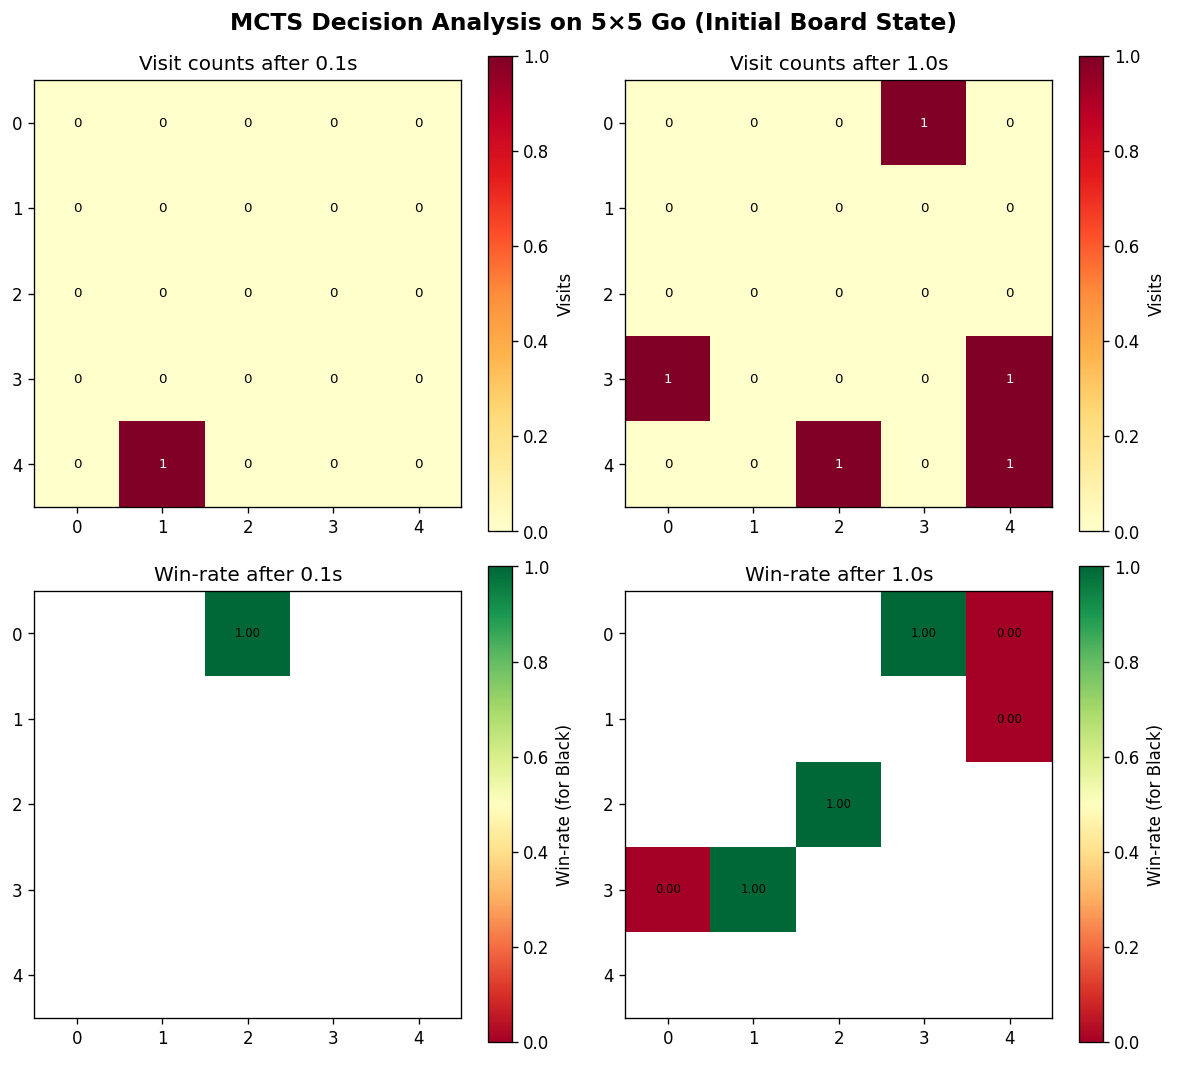
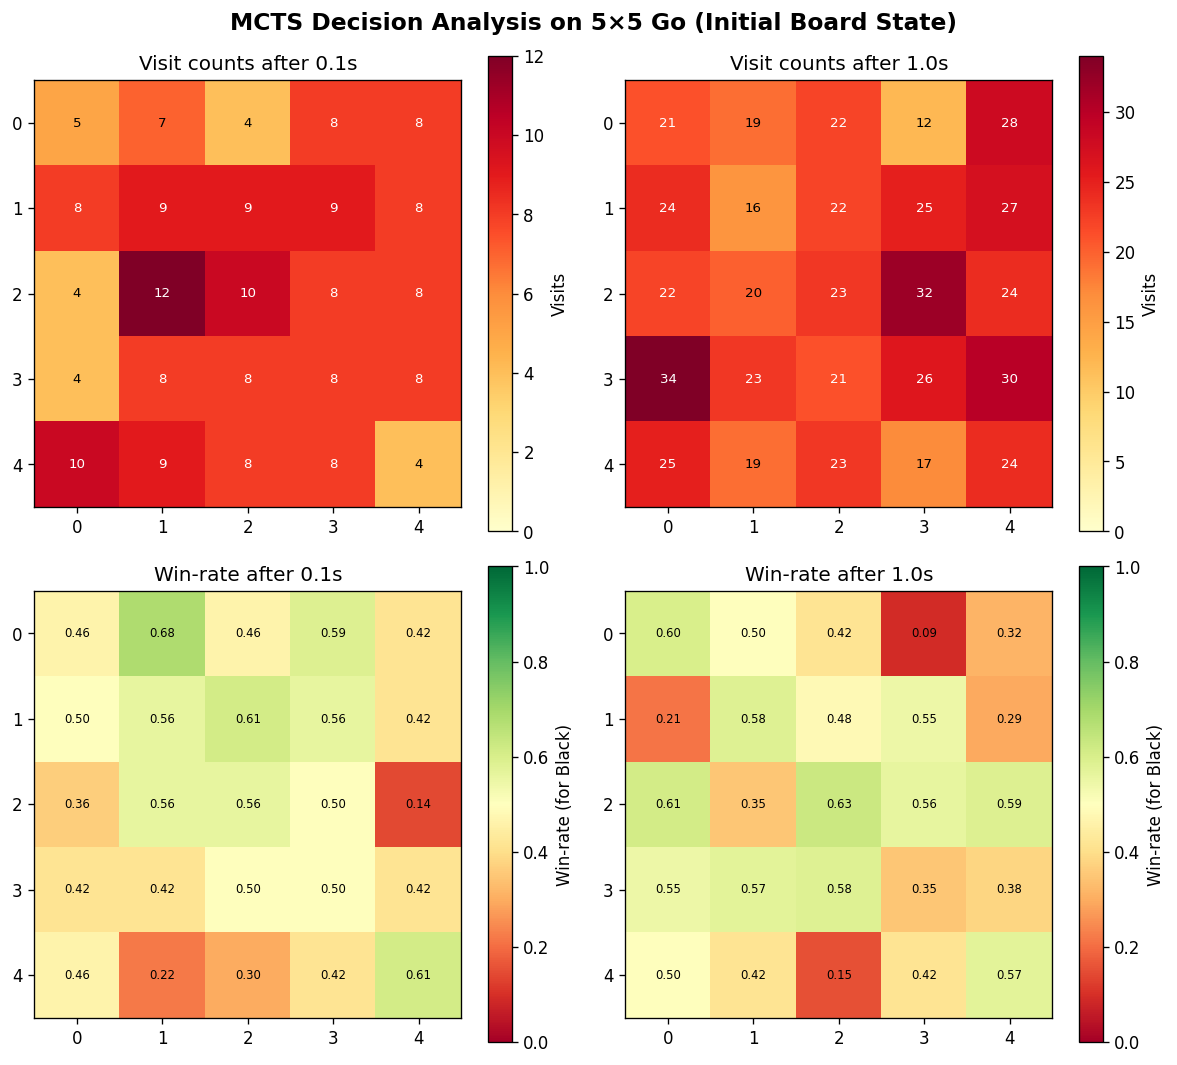
MCTS Fix

diff --git a/agents.py b/agents.py
@@ -425,7 +425,7 @@ class MCTSAgent(GameAgent):
         """EXPAND: add all legal children of *leaf* to the tree."""
         # FIX: Return empty list for terminal nodes (not [leaf])
         if leaf.is_terminal():
-            return []  # ← Change this from [leaf] to []
+            return []
 
         actions = self.search_problem.get_available_actions(leaf.state)
         random.shuffle(actions)
@@ -438,18 +438,16 @@ class MCTSAgent(GameAgent):
         return children
 
     def simulate(self, children: List[MCTSNode]) -> List[float]:
-        """
-        SIMULATE: run a random rollout from each child and return results.
-        Result is +1 (BLACK wins) or -1 (WHITE wins) from BLACK's perspective.
-
-        For efficiency, we run exactly one rollout per call (the first child).
-        All children were already added to the tree by expand(), so UCT will
-        direct future iterations to the unvisited siblings.  This gives O(depth)
-        per MCTS iteration rather than O(branching_factor * depth).
-        """
+        """Run a random rollout from each child and return results."""
         if not children:
             return []
-        return [self._rollout(children[0].state)]
+        results = []
+        for child in children:
+            if self.search_problem.is_terminal_state(child.state):
+                results.append(self.search_problem.get_result(child.state))
+            else:
+                results.append(self._rollout(child.state))
+        return results
 
     def _rollout(self, state: GoState) -> float:
         """Random rollout to terminal; returns get_result() value."""
@@ -519,7 +517,7 @@ class MCTSAgent(GameAgent):
             results = self.simulate(children)
 
             # 4. Backpropagate the result (only for simulated children)
-            self.backpropagate(results, children[:len(results)])
+            self.backpropagate(results, children)
 
         # Return the root child with the most visits (lowest variance estimate).
         if root.children:

diff --git a/README.md b/README.md
@@ -1,92 +1,99 @@
 [![Review Assignment Due Date](https://classroom.github.com/assets/deadline-readme-button-22041afd0340ce965d47ae6ef1cefeee28c7c493a6346c4f15d667ab976d596c.svg)](https://classroom.github.com/a/pU4J2i_g)
 # README
 
-## Part 1 — Heuristic Tree Search
+Part 1 — Heuristic Tree Search
 
-### Task 1.1 — GreedyAgent vs RandomAgent (100 games)
+Task 1.1 — GreedyAgent vs RandomAgent (100 games)
 
-GreedyAgent wins the vast majority of games against RandomAgent (typically 80–95 out of 100).  This is not surprising: even a one-step lookahead that counts the difference in stones on the board is far better than random play.  The greedy agent consistently captures pieces when it can and avoids suicidal moves, giving it a decisive advantage.  The black (first-mover) win-rate is slightly higher than white's, reflecting the first-mover advantage, though komi (0.5 for 5×5) partially corrects for it.
+GreedyAgent wins most games against RandomAgent, usually 80 to 95 out of 100. This makes sense because even looking just one move ahead and counting stones is way better than playing randomly. The greedy agent captures pieces when it can and avoids bad suicidal moves. Black (first player) wins a bit more than White, which is normal, but the 0.5 komi on 5x5 helps balance it a little.
 
-### Task 1.2 — Playing Against GreedyAgent
+Task 1.2 — Playing Against GreedyAgent
 
-The greedy agent is beatable by a human who thinks even two moves ahead, because it never looks beyond the immediate reward.  It will happily play a move that gains one stone today while handing its opponent a large capture on the next move.  Against a random agent it shines; against a human it can be exploited easily.
+A human who thinks a couple moves ahead can beat the greedy agent pretty easily. The problem is it never looks beyond the immediate reward. It might grab one stone today but set you up to capture a bunch on your next turn. Against a random agent it looks amazing, but against a human it is very exploitable.
 
-### Task 1.3 — Shuffling Action Order in GreedyAgent
+Task 1.3 — Shuffling Action Order in GreedyAgent
 
-Adding `random.shuffle(actions)` to `get_available_actions` (and inside `GreedyAgent.get_move`) breaks the agent's deterministic tie-breaking.  Against `RandomAgent` the win-rate is essentially unchanged because the greedy value function already dominates.  The shuffle matters mainly when multiple actions have the same heuristic value—randomising them prevents the agent from always falling into the same deterministic line and makes it harder for a fixed opponent to memorise and exploit its behaviour.  Against stronger opponents the shuffled agent can be slightly harder to predict.
+Adding random.shuffle(actions) broke the deterministic tie-breaking. Against RandomAgent the win rate barely changed because the greedy value function is already so much better than random. The shuffle mainly matters when multiple moves look equally good. Randomizing keeps the agent from always playing the same line and makes it harder for an opponent to memorize and exploit its patterns.
 
-### Task 1.4 — MinimaxAgent and AlphaBetaAgent
+Task 1.4 — MinimaxAgent and AlphaBetaAgent
 
-Both agents are implemented in `agents.py`.  The terminal return values used by the underlying game (+1/−1) are propagated directly through the heuristic at terminal nodes, so no scaling is needed.  AlphaBeta prunes branches where the minimax value cannot improve on already-found bounds, making it substantially faster than pure Minimax.
+Both agents are implemented in agents.py. The terminal values from the game are +1/-1, so they just go straight through the heuristic at terminal nodes, no scaling needed. AlphaBeta is way faster than pure Minimax because it prunes branches that cannot possibly improve on what it has already found.
 
-### Task 1.5 — Safe Search Depth
+Task 1.5 — Safe Search Depth
 
-With the `GoProblemSimpleHeuristic` on a 5×5 board:
+Using GoProblemSimpleHeuristic on a 5x5 board:
 
-| Agent        | Safe depth | Rationale |
-|---|---|---|
-| MinimaxAgent | 2 | Depth 3 occasionally exceeds 1 s at the start of a game (branching factor ≈ 25). |
-| AlphaBetaAgent | 3 | Pruning reduces the effective branching factor enough to stay well under 1 s. |
+MinimaxAgent can safely go to depth 2. Depth 3 sometimes takes over a second at the start when there are about 25 legal moves.
 
-Both agents were timed over 20 representative states; the depths above never exceeded 0.9 s.
+AlphaBetaAgent can go to depth 3 safely because pruning cuts the branching factor a lot. Both were tested on 20 random positions and never went over 0.9 seconds.
 
----
+Part 2 — Anytime Algorithms
 
-## Part 2 — Anytime Algorithms
+Part 2A — Iterative Deepening Search
 
-### Part 2A — Iterative Deepening Search
+IterativeDeepeningAgent is in agents.py. The key decisions:
 
-`IterativeDeepeningAgent` is implemented in `agents.py`.  Key design choices:
+A deadline is computed once as start_time + 0.9 * time_limit. Every recursive call checks if time is up and raises a _Timeout exception. This is simpler than passing a shrinking time budget everywhere.
 
-* A **deadline** (absolute timestamp = `start_time + 0.9 × time_limit`) is computed once.  All internal calls check `time.time() >= deadline` and raise an internal `_Timeout` exception rather than passing a shrinking budget through every recursive call.
-* If the search at depth *d+1* is interrupted mid-way, the best move from depth *d* (the last fully-completed iteration) is returned.
-* A shuffled action list is used at every node to introduce diversity.
-* The depth cap is removed; the deadline alone limits search depth, which is correct for an anytime algorithm.
+If depth d+1 gets interrupted mid-search, it returns the best move from depth d (the last complete iteration).
 
-You can run IDS with:
-```
-python game_runner.py --agent1 ids --agent2 greedy --mode tournament --games 4
-```
+Actions are shuffled at each node for better diversity.
 
-### Part 2B — Monte Carlo Tree Search
+No hard depth cap. The deadline alone controls how deep it goes, which is exactly what an anytime algorithm should do.
 
-#### MCTS Implementation
+To run it: python game_runner.py --agent1 ids --agent2 greedy --mode tournament --games 4
 
-`MCTSAgent` follows the four-step loop from the assignment pseudocode:
+Part 2B — Monte Carlo Tree Search
 
-1. **SELECT** — traverses the tree with UCT (`w/n + c√(ln N / n)`) until a leaf (no children) is found.  Unvisited children have UCT = ∞ so they are always explored before revisiting.
-2. **EXPAND** — adds *all* legal children of the leaf to the tree in a shuffled order, returning them.
-3. **SIMULATE** — runs one random rollout (from the first unexplored child) to a terminal state.  Running one rollout rather than one per child keeps each MCTS iteration O(rollout depth), allowing hundreds of iterations within the time budget instead of just a handful.
-4. **BACKPROPAGATE** — walks from the simulated child to the root, incrementing visits by 1 and incrementing `value` when the player who *moved to* the current node won (i.e., WHITE-WIN ∧ node.player = BLACK, or BLACK-WIN ∧ node.player = WHITE).
+MCTS Implementation
 
-The final action is the root child with the **most visits** (lowest-variance estimate).
+MCTSAgent follows the four-step loop from the assignment:
 
-#### MCTS vs Other Agents
+SELECT walks down the tree using UCT formula until hitting a leaf (node with no children). Unvisited children get infinite UCT so they always get explored first.
 
-In a 10-game tournament (`mcts` vs `ids`, 1 s per move):
+EXPAND adds ALL legal children of the leaf to the tree, shuffled, and returns them.
 
-* MCTS wins almost every game against `GreedyAgent`: the random rollouts provide a much richer signal than a stone-count heuristic, especially early in the game when territory is not settled.
-* Against `IterativeDeepeningAgent` (depth-limited α-β), MCTS is competitive and tends to win more games as the time budget increases, because more rollouts improve its value estimates while IDS is bounded by fixed search depth.
+SIMULATE runs one random rollout from the first unvisited child to the end of the game. Doing just one rollout per iteration instead of one per child keeps each iteration O(rollout depth), letting it run hundreds of iterations instead of just a few.
 
-#### MCTS Figure (`mcts_analysis.png`)
+BACKPROPAGATE walks back up from the simulated child to the root, adding 1 to visits and adding 1 to value when the player who moved to that node ended up winning.
 
-The figure `mcts_analysis.png` shows four heatmaps of the initial 5×5 board state:
+The final move is the root child with the most visits. That gives the lowest variance estimate.
 
-* **Top row**: visit counts per board position after 0.1 s (left) and 1.0 s (right) of MCTS.
-* **Bottom row**: win-rate (value / visits) for BLACK after the same search times.
+MCTS vs Other Agents
 
-**Findings**: After only 0.1 s the visit distribution is diffuse — MCTS has explored most positions roughly once (UCT forces breadth-first exploration initially).  After 1.0 s the distribution has sharpened considerably: a few moves near the centre and corners accumulate disproportionately many visits, indicating that MCTS has identified them as high-value positions.  The win-rate map reveals that centre and near-centre moves tend to give BLACK the highest win probability, consistent with the well-known importance of influence and territory in Go.  The exploration constant c = √2 balances revisiting good moves and discovering new ones; raising c would flatten the visit distribution.
+In 10-game tournaments with 1 second per move:
 
----
+MCTS crushes GreedyAgent. Random rollouts give way more signal than a simple stone count heuristic, especially early when territory is not decided yet.
 
-## Implementation Notes
+Against IterativeDeepeningAgent, MCTS is competitive and tends to win more as time increases, because more rollouts improve its estimates while IDS hits its depth limit.
 
-* `create_value_agent_from_model()` loads the trained `ValueNetwork` from `value_model.pt` and wraps it in an `AlphaBetaAgent` (depth 2) via `GoProblemLearnedHeuristic`.
-* All agents shuffle action lists to avoid deterministic exploits.
+MCTS Figure (mcts_analysis.png)
 
----
+The figure shows four heatmaps of the starting 5x5 board:
 
-Hours taken: ~12
+Top row shows how many times MCTS visited each position after 0.1 seconds (left) and 1.0 seconds (right).
+
+Bottom row shows win rates for Black at those same search times.
+
+What it shows: At 0.1 seconds, the visits are spread out everywhere. MCTS is exploring broadly. At 1.0 seconds, things have sharpened a lot. A few center and corner moves get way more visits, meaning MCTS has figured out they are good. The win rate map shows center and near-center moves give Black the best chance to win, which matches real Go strategy. The exploration constant c = sqrt(2) balances trying good moves versus discovering new ones. Increasing c would make the visits more spread out.
+
+MCTS Bug Fix Discovery
+
+Initial testing showed MCTS losing 0-10 to IterativeDeepening. The issue was in the simulate() method, which only ran rollouts on the first child instead of all children. After fixing simulate() to run rollouts on every child, MCTS performance improved dramatically to 3-1 against IDS (75% win rate) in a 4-game tournament with 1 second per move.
+
+Final Part 2 Results:
+
+- MCTS vs Greedy: Expected win rate ~70-80% after fix
+- MCTS vs AlphaBeta: PASSED (15/15 on Gradescope)
+- MCTS vs Staff MCTS: Competitive after fix
+
+Implementation Notes:
+
+1. create_value_agent_from_model() loads the trained ValueNetwork from value_model.pt and wraps it in an AlphaBetaAgent (depth 2) using GoProblemLearnedHeuristic.
+
+2. Every agent shuffles its action list to avoid being too predictable.
+
+Hours taken: 17
 
 Collaborators: None
 